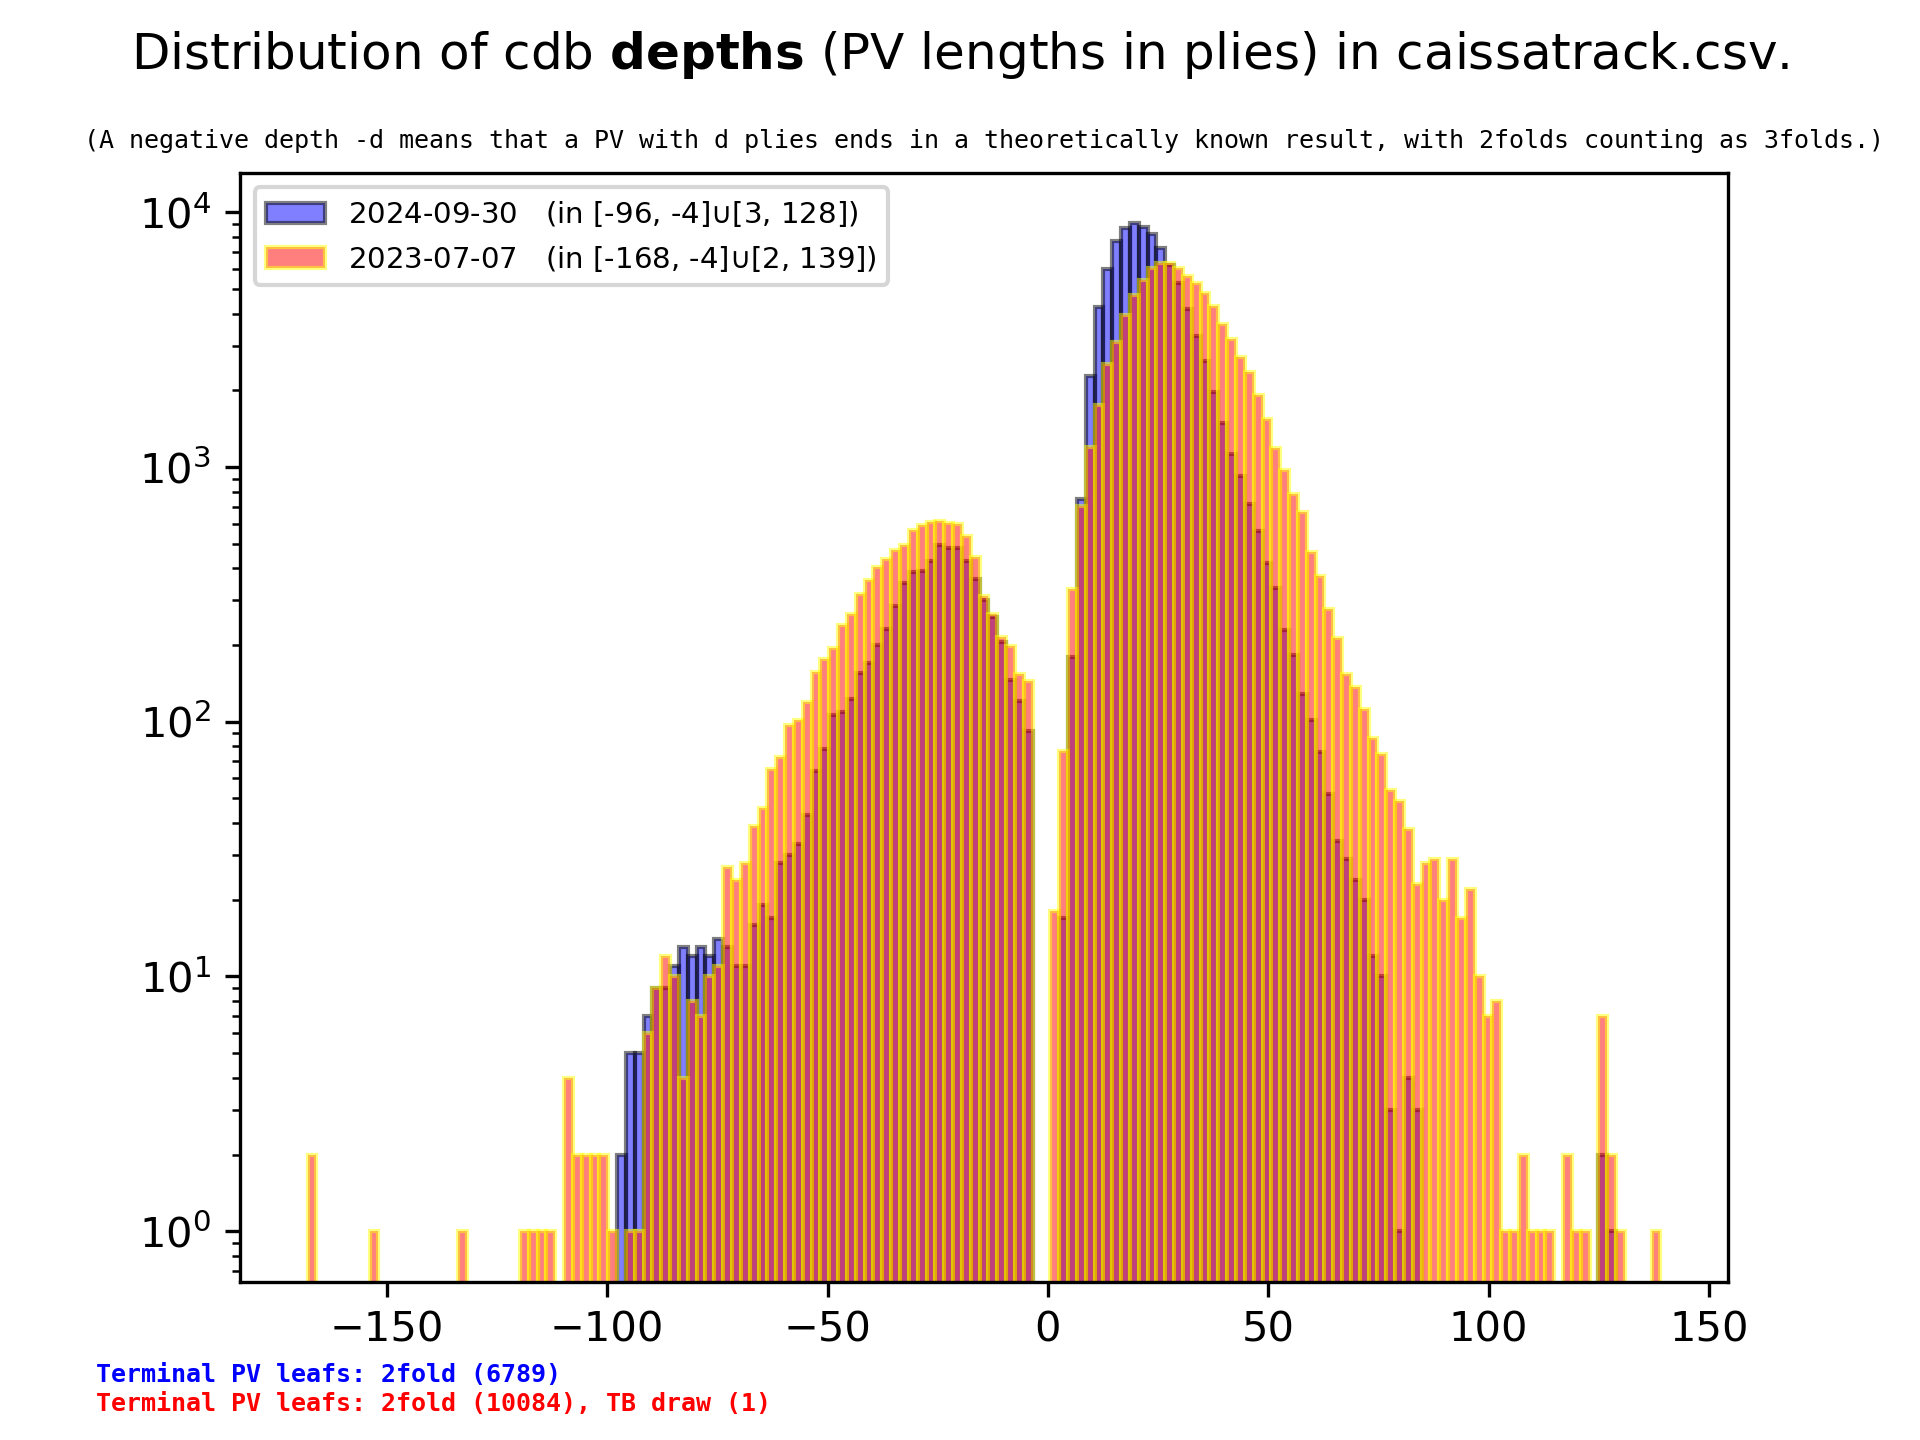
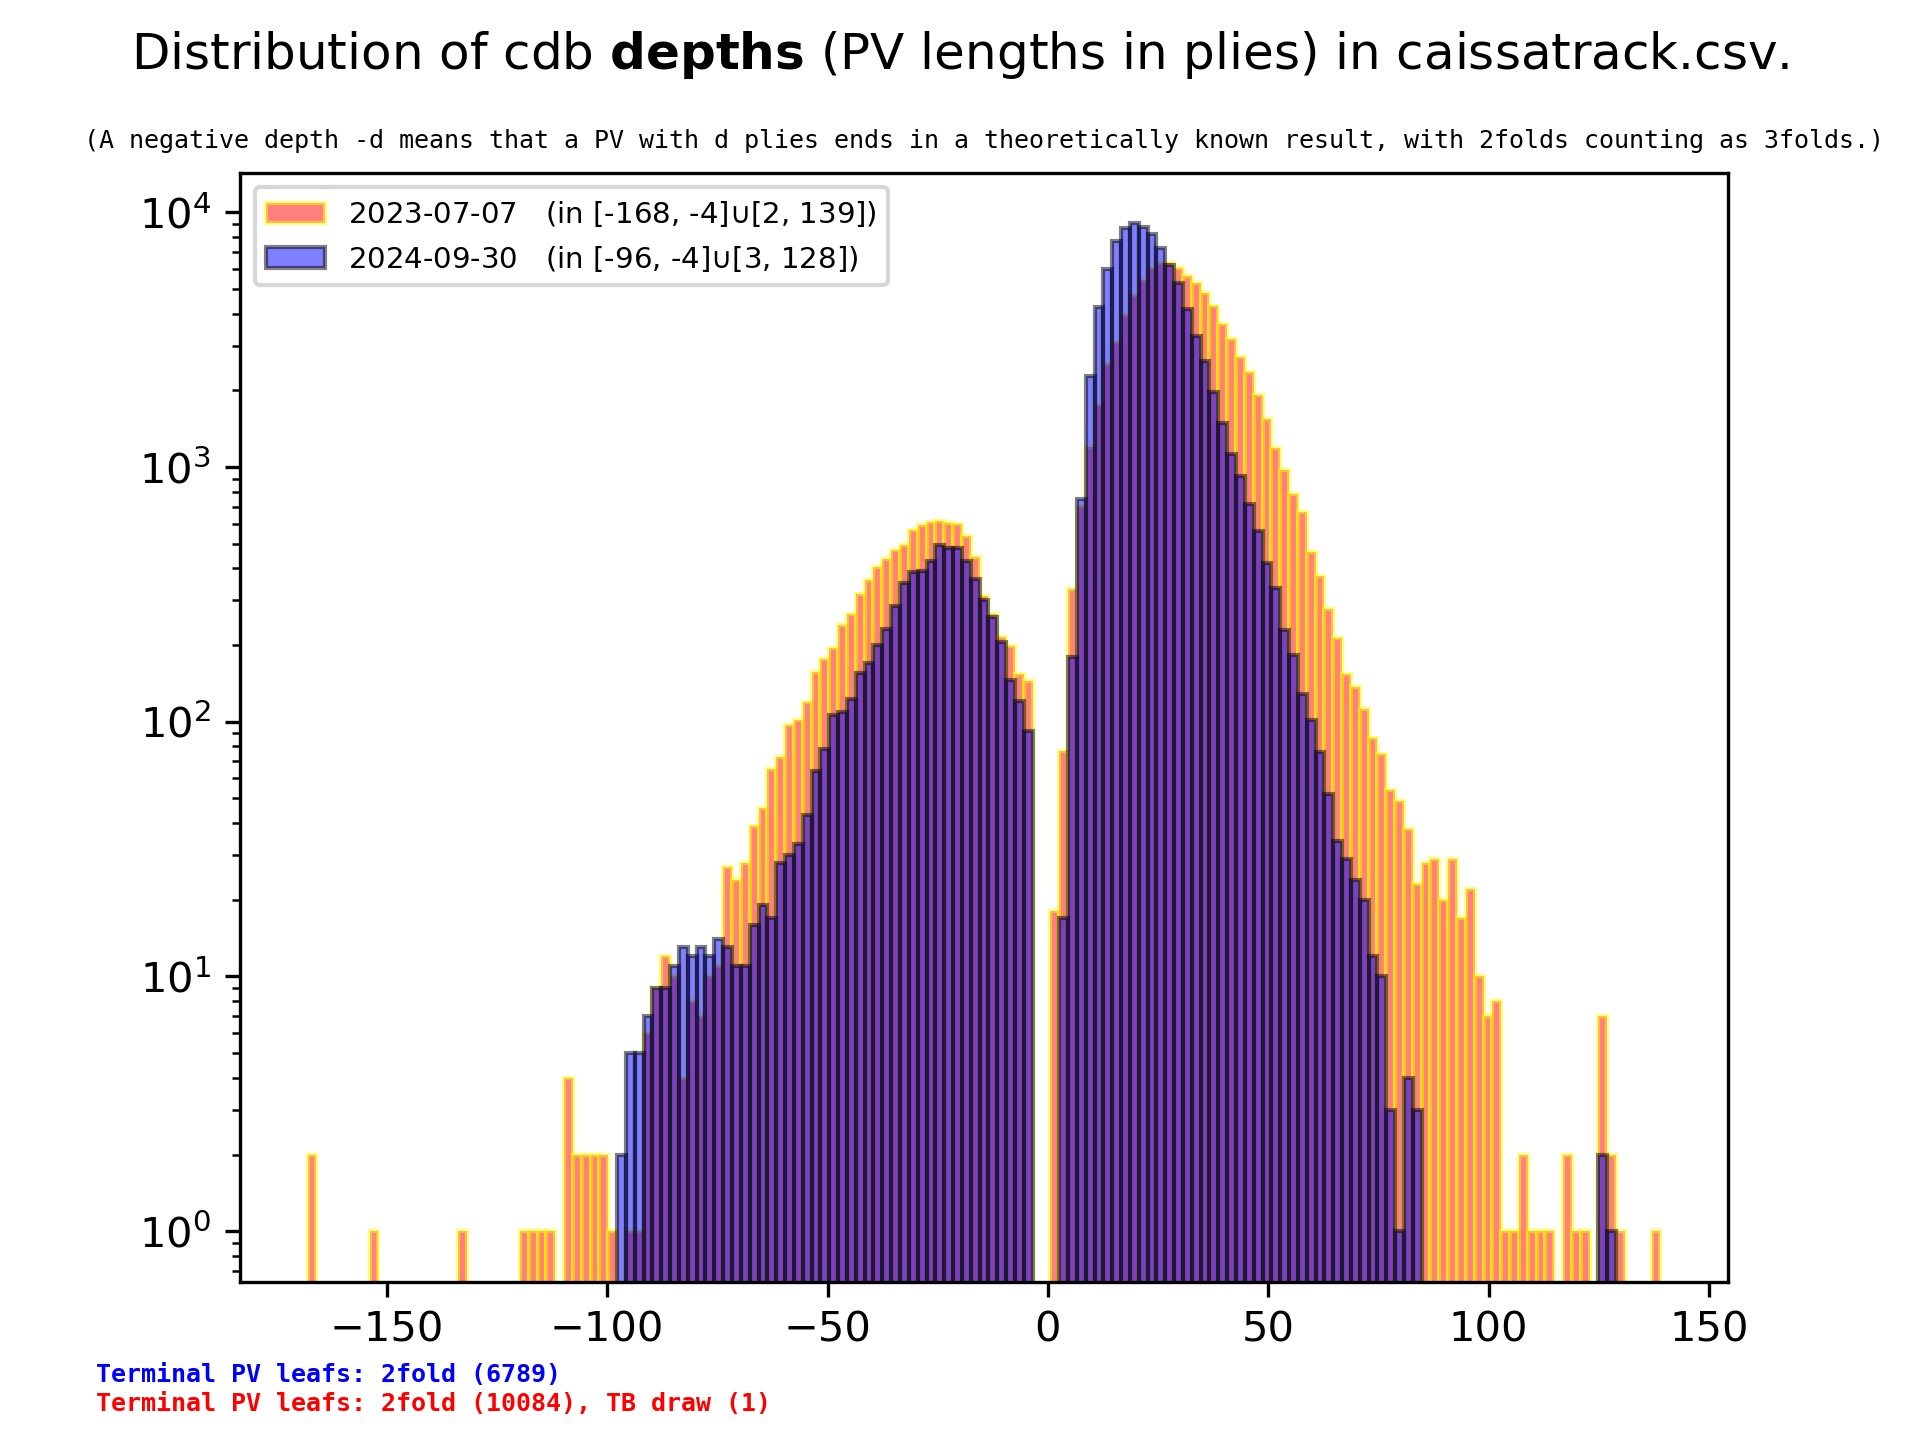
swap plot order (#20)

diff --git a/plotdata.py b/plotdata.py
@@ -117,7 +117,7 @@ class caissadata:
             rangeMax = ma if rangeMax is None else max(ma, rangeMax)
         fig, ax = plt.subplots()
         perBin = 2 if pv else 1 if cutOff <= 100 else 3  # values per bin
-        for Idx in [-1, 0]:
+        for Idx in [0, -1]:
             ax.hist(
                 dictList[Idx].keys(),
                 weights=dictList[Idx].values(),
